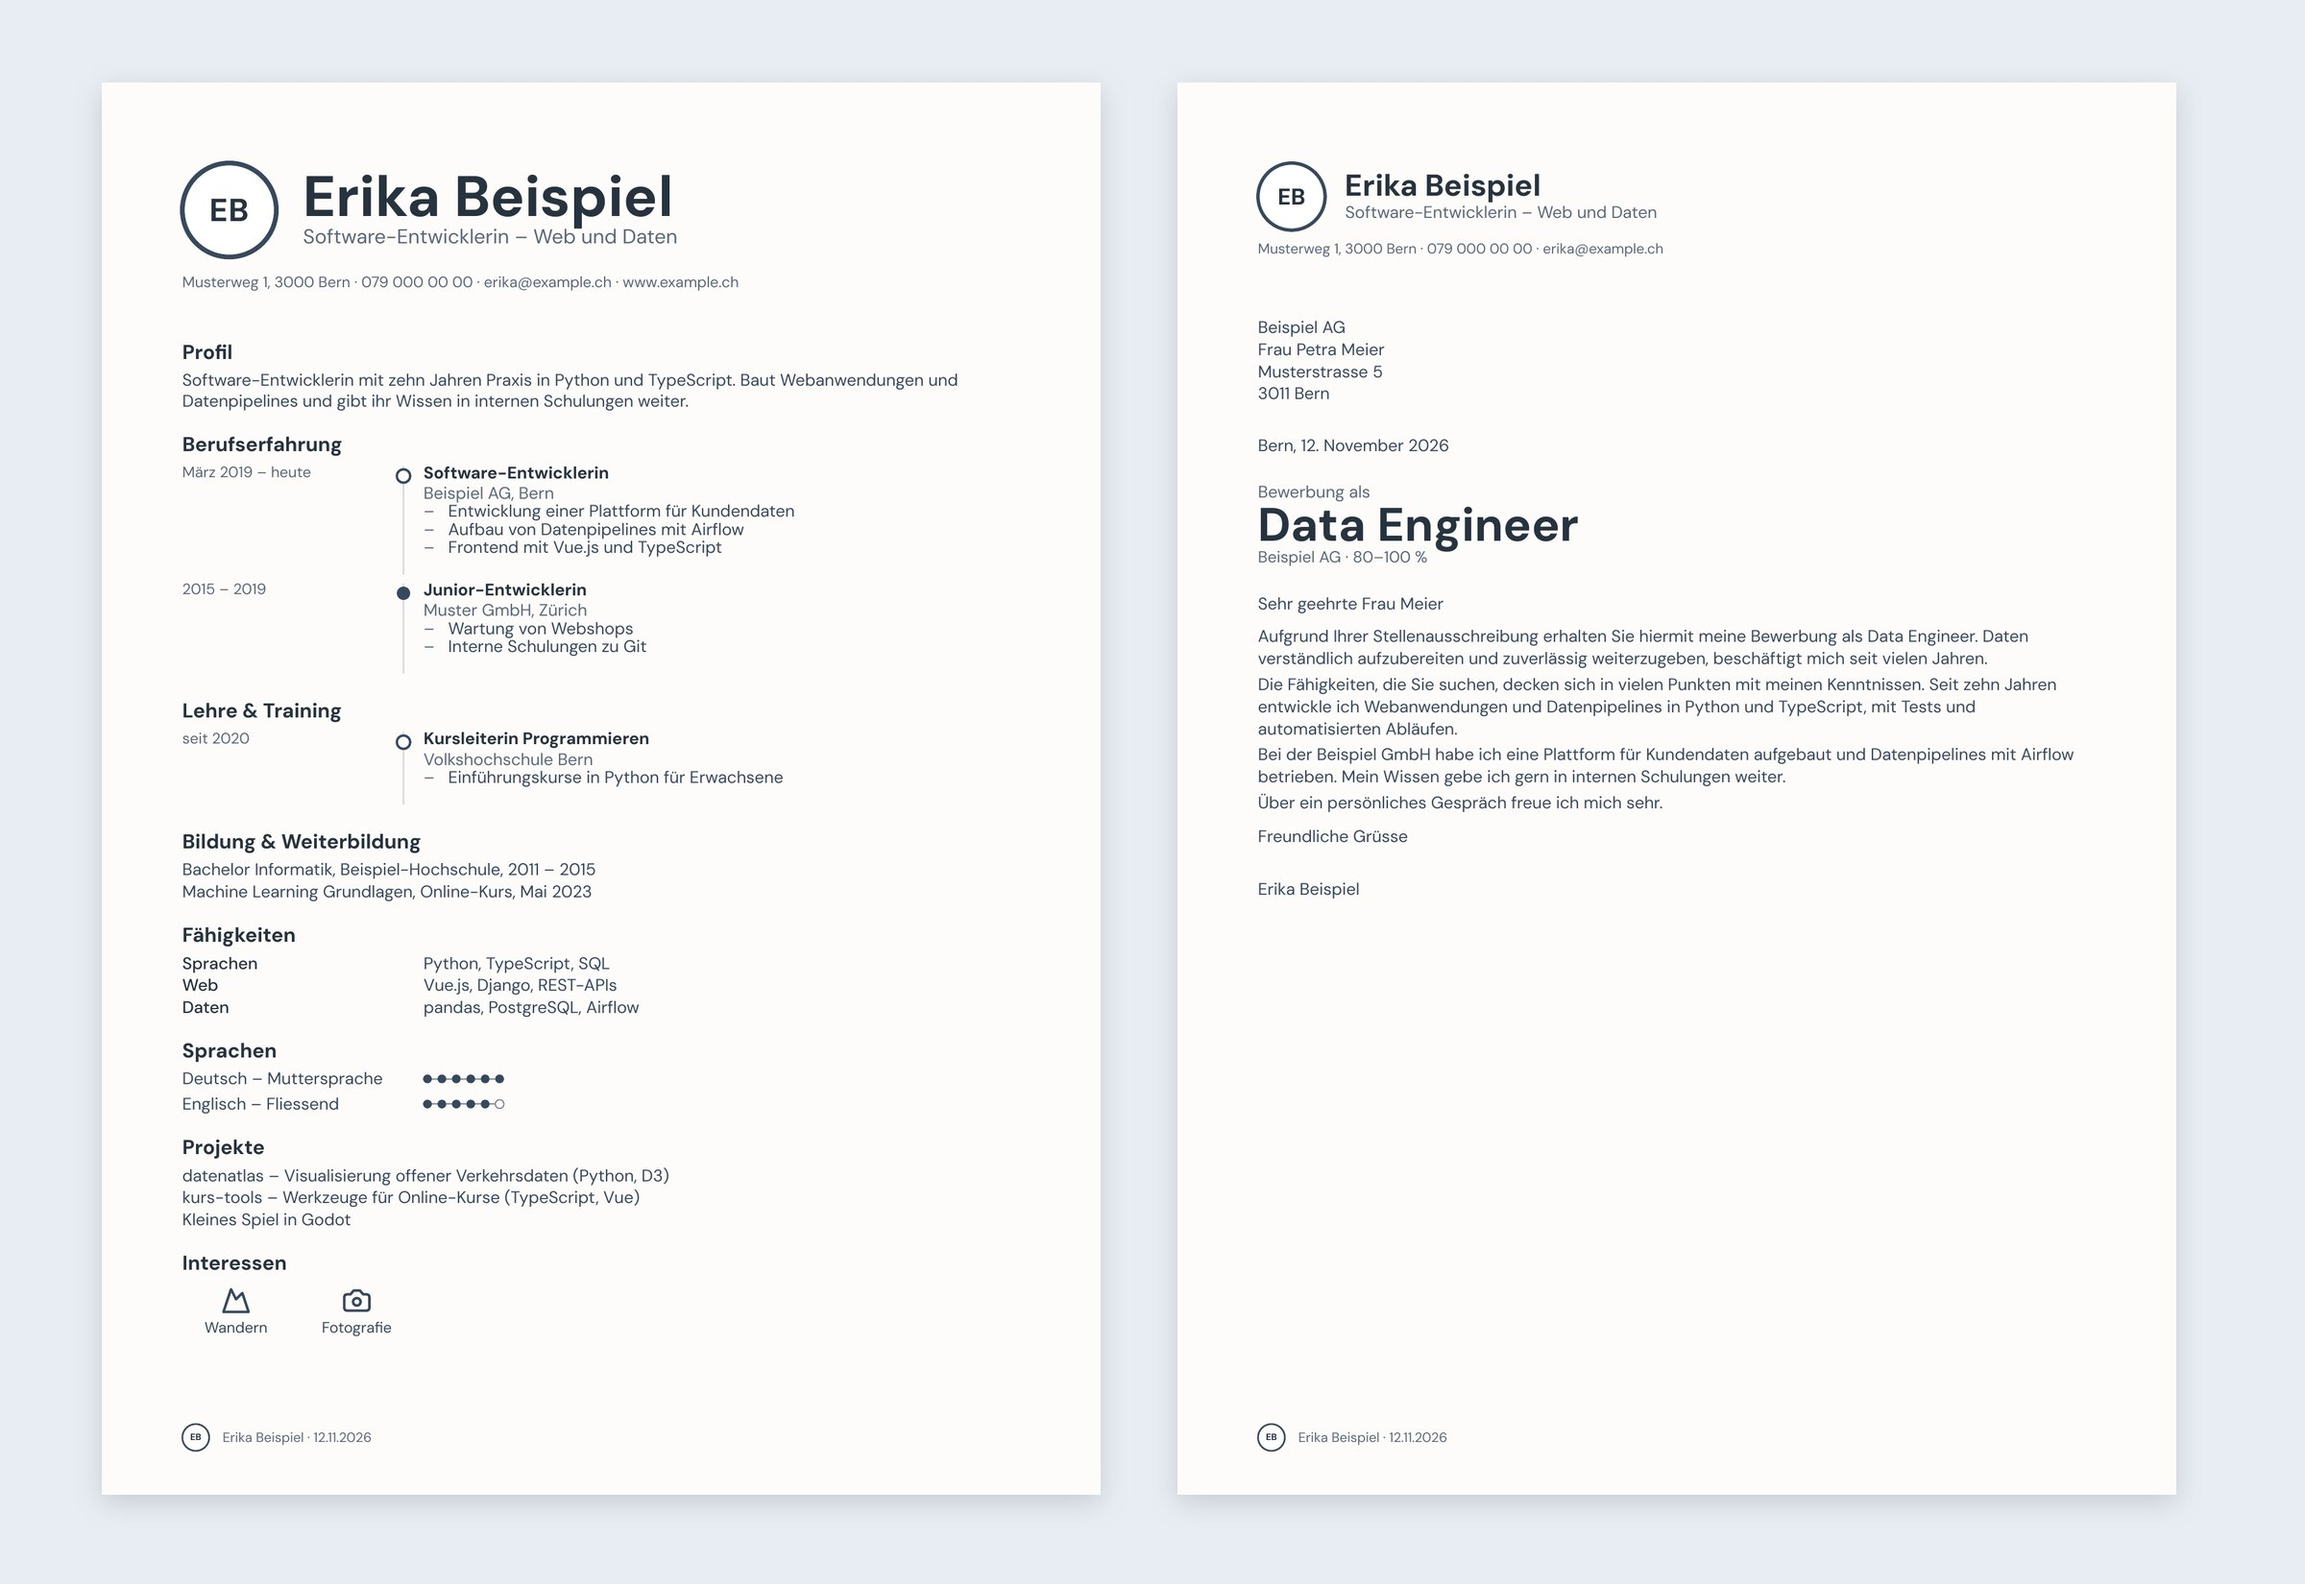
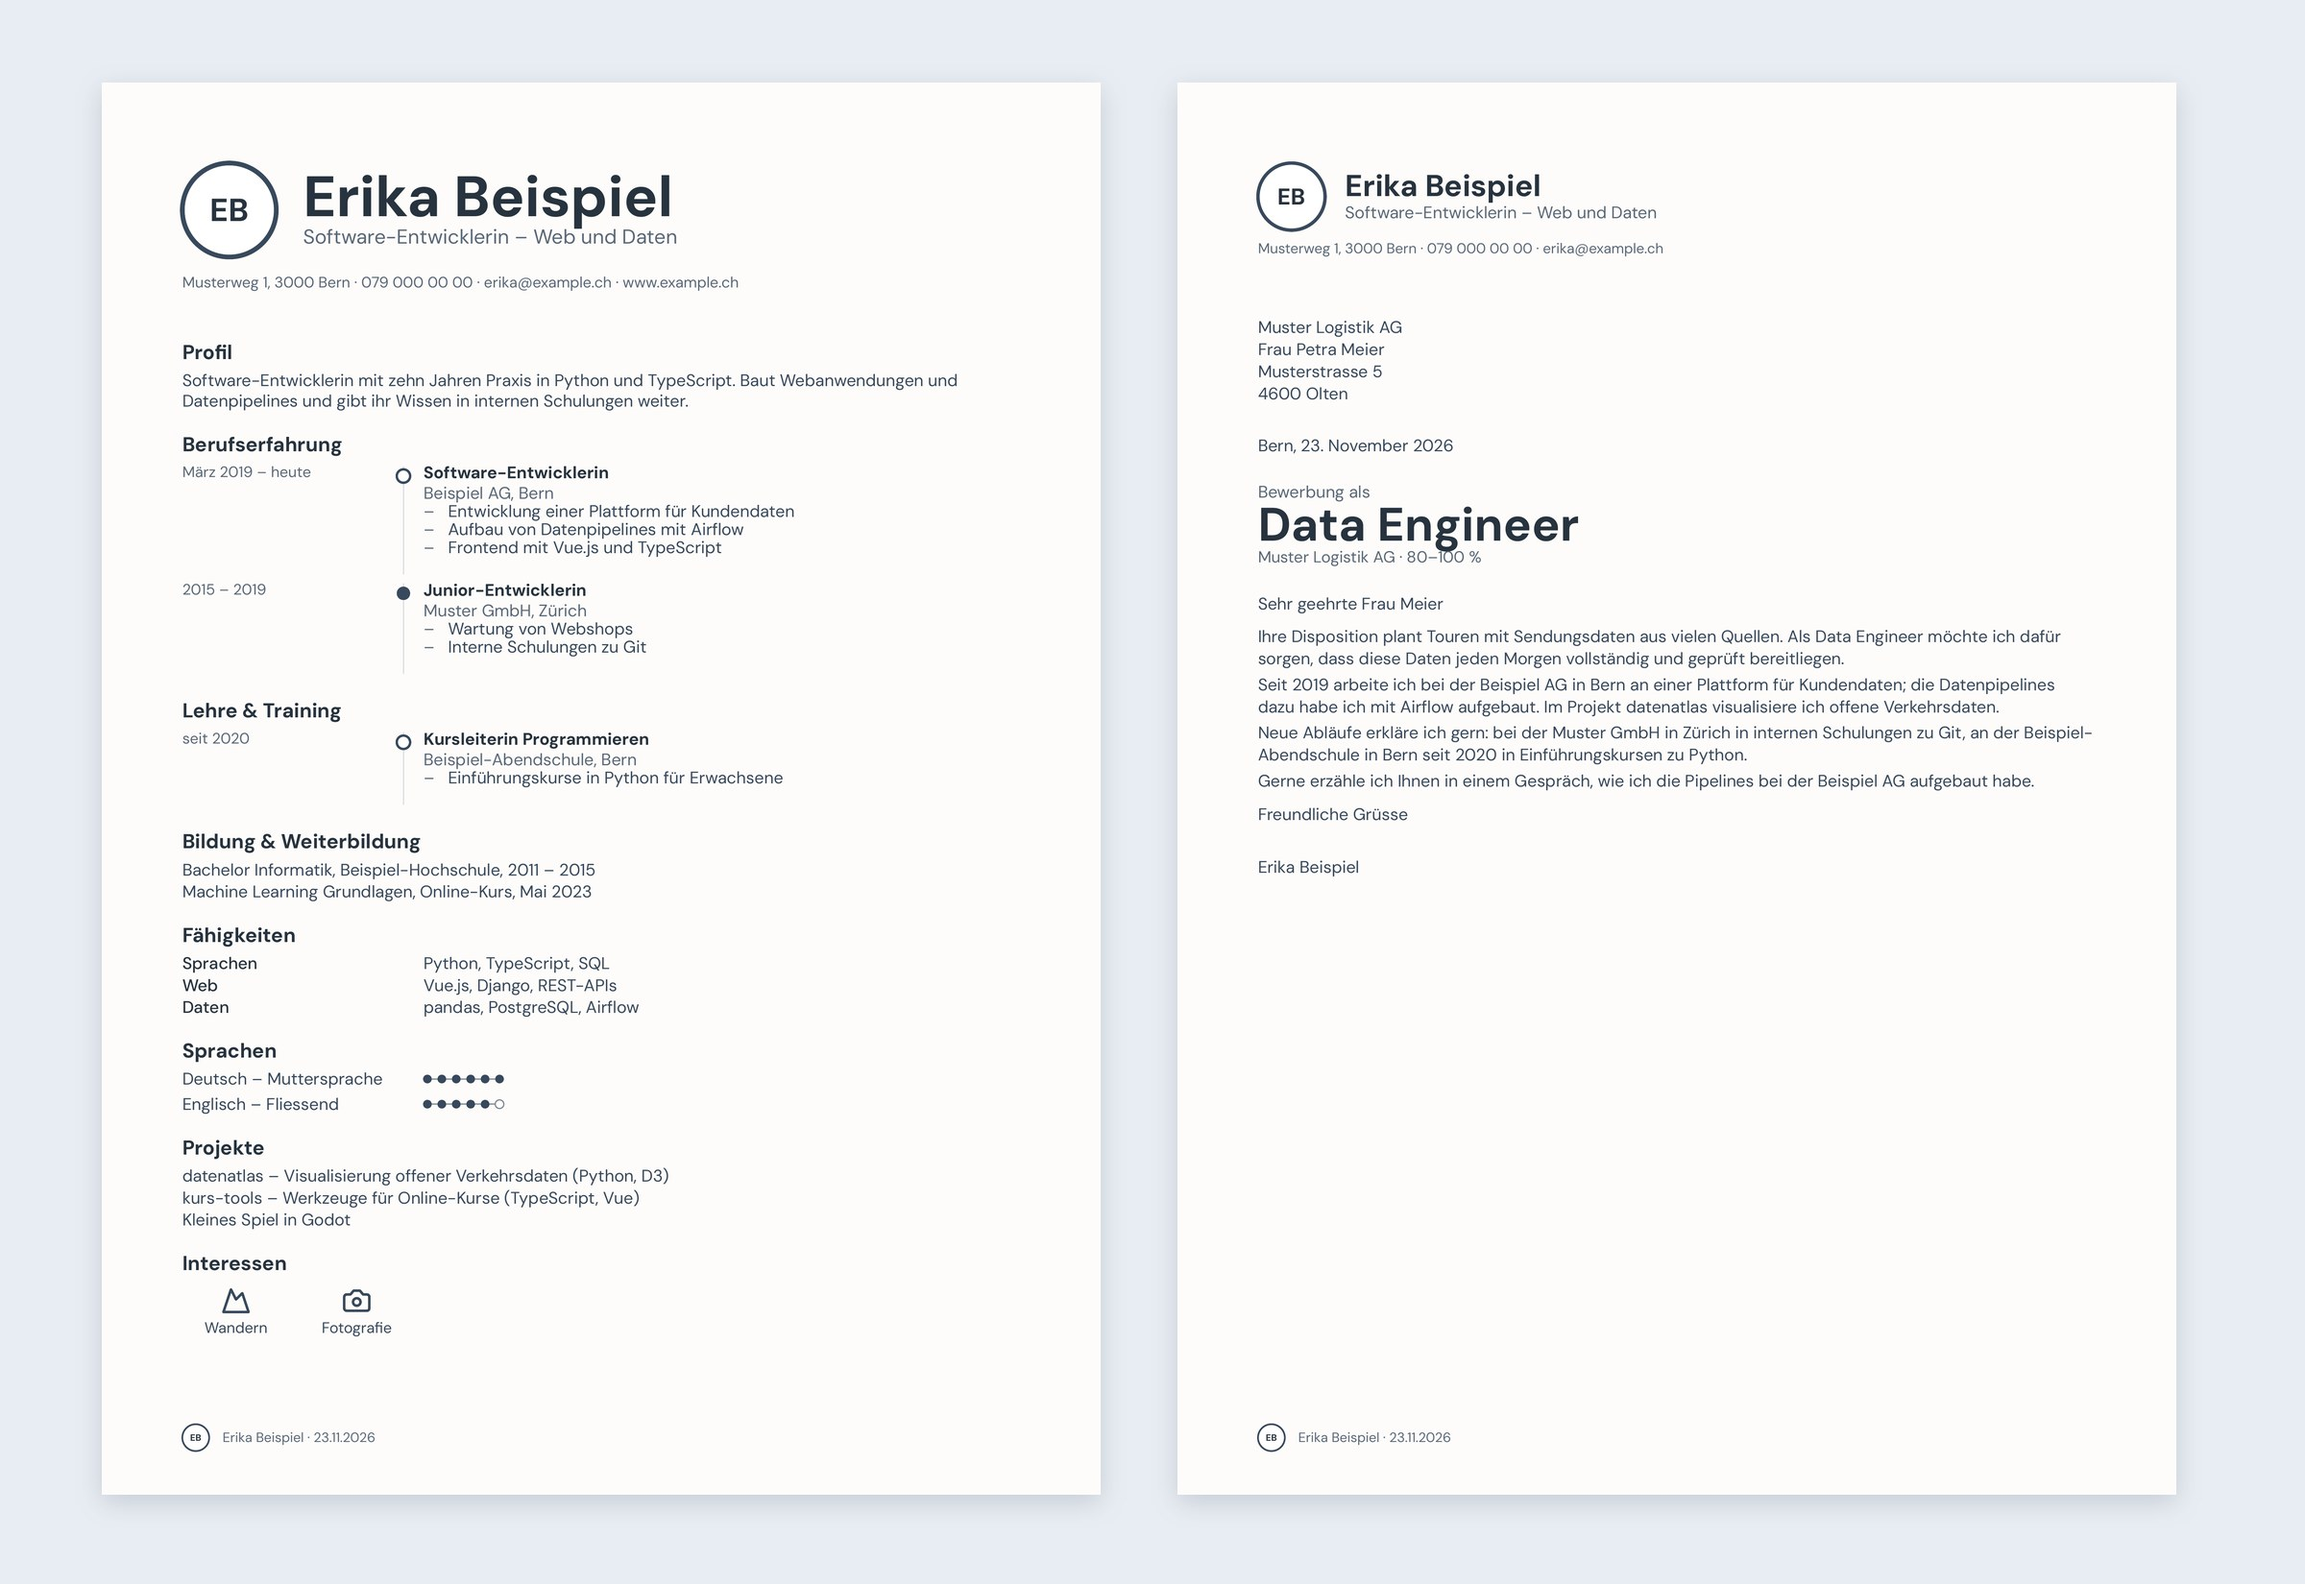
docs(bilder): retake the example documents with a consistent story #437
The example letter went to Erika's own employer and named a firm her CV
lacks; it now goes to an invented firm outside the CV and names only her
stations, with an invented school instead of a real one.

Pullboard-Item: #437

diff --git a/lebenslauf/tests/test_example_story.py b/lebenslauf/tests/test_example_story.py
@@ -1,0 +1,105 @@
+"""The invented example tells one consistent story (#437).
+
+The picture docs/bilder/beispiel-unterlagen.jpg is built from these files, and the website shows it: the
+letter must go to a firm outside the CV, name only firms and years the CV holds, name no real institution
+and open without a stock phrase.
+"""
+import re
+
+import yaml
+
+import build
+
+DATA = build.ROOT / "data"
+BUILDING_BLOCKS = build.ROOT.parent / "vorlagen" / "anschreiben" / "bausteine.md"
+EXAMPLE_FILES = (DATA / "beispiel.yaml", DATA / "anschreiben-beispiel.yaml", DATA / "dossier-beispiel.yaml",
+                 BUILDING_BLOCKS)
+
+# Openers the app's tone advises against; compared case-insensitively with the start of the letter
+STOCK_OPENERS = ("mit grossem interesse", "mit großem interesse", "mit interesse", "hiermit bewerbe ich mich",
+                 "hiermit sende ich", "mit freude habe ich", "aufgrund ihrer stellenausschreibung",
+                 "auf ihre stellenausschreibung", "bezugnehmend auf", "ich bewerbe mich", "gerne bewerbe ich mich",
+                 "mit diesem schreiben", "ihre stellenanzeige hat")
+# A word that marks a stock opening wherever it stands in the first sentence
+STOCK_WORDS = ("hiermit",)
+REAL_INSTITUTIONS = ("Volkshochschule",)
+
+# A firm: capitalised words ending in a legal form; a school: one word ending in -schule
+FIRM = re.compile(r"(?:[A-ZÄÖÜ][\w.&-]*\s)+(?:AG|GmbH|SA|Sàrl|KG)\b")
+SCHOOL = re.compile(r"\b[A-ZÄÖÜ][\w-]*schule\b")
+YEAR = re.compile(r"\b(?:19|20)\d\d\b")
+BLOCK_FIRM = re.compile(r"^- \*\*([^,*(]+)")
+
+
+def load(name: str) -> dict:
+    return yaml.safe_load((DATA / name).read_text(encoding="utf-8"))
+
+
+def cv_organisations(cv: dict) -> set[str]:
+    stations = cv.get("work", []) + cv.get("teaching", []) + cv.get("volunteer", [])
+    names = {s["name"] for s in stations if s.get("name")}
+    names |= {e["institution"] for e in cv.get("education", []) if e.get("institution")}
+    return names
+
+
+def cv_years(cv: dict) -> set[str]:
+    return set(YEAR.findall(yaml.safe_dump(cv, allow_unicode=True)))
+
+
+def named_in(text: str) -> list[str]:
+    return [m.strip() for m in FIRM.findall(text)] + SCHOOL.findall(text)
+
+
+def known(name: str, organisations: set[str]) -> bool:
+    """A name counts as known when it ends in one from the CV, so «Bei der Beispiel AG» reads as «Beispiel AG»."""
+    return any(name == org or name.endswith(" " + org) for org in organisations)
+
+
+def first_sentence(text: str) -> str:
+    return re.split(r"(?<=[.!?:])\s", " ".join(text.split()), maxsplit=1)[0]
+
+
+def test_the_letter_goes_to_a_firm_outside_the_cv():
+    target = load("anschreiben-beispiel.yaml")["empfaenger"][0]
+    assert target not in cv_organisations(load("beispiel.yaml"))
+
+
+def test_every_firm_and_school_the_letter_names_is_in_the_cv():
+    organisations = cv_organisations(load("beispiel.yaml"))
+    named = named_in(load("anschreiben-beispiel.yaml")["text"])
+    assert named, "the letter names no firm from the CV"
+    assert [name for name in named if not known(name, organisations)] == []
+
+
+def test_every_year_the_letter_names_is_in_the_cv():
+    years = YEAR.findall(load("anschreiben-beispiel.yaml")["text"])
+    assert set(years) <= cv_years(load("beispiel.yaml"))
+
+
+def test_the_building_blocks_name_only_stations_of_the_cv():
+    cv = load("beispiel.yaml")
+    organisations = cv_organisations(cv)
+    lines = BUILDING_BLOCKS.read_text(encoding="utf-8").splitlines()
+    firms = [m.group(1).strip() for line in lines if (m := BLOCK_FIRM.match(line))]
+    assert firms, "the building blocks name no station"
+    assert [firm for firm in firms if firm not in organisations] == []
+    assert set(YEAR.findall("\n".join(lines))) <= cv_years(cv)
+
+
+def test_the_example_names_no_real_institution():
+    found = [(path.name, word) for path in EXAMPLE_FILES for word in REAL_INSTITUTIONS
+             if word in path.read_text(encoding="utf-8")]
+    assert found == []
+
+
+def test_the_letter_opens_without_a_stock_phrase():
+    opening = first_sentence(load("anschreiben-beispiel.yaml")["text"]).lower()
+    assert not opening.startswith(STOCK_OPENERS), opening
+    assert not any(re.search(rf"\b{word}\b", opening) for word in STOCK_WORDS), opening
+
+
+def test_the_stock_phrase_check_can_fail():
+    assert first_sentence("Mit grossem Interesse habe ich Ihr Inserat gelesen. Weiter.").lower().startswith(
+        STOCK_OPENERS)
+    assert not known("Beispiel GmbH", {"Beispiel AG"})
+    assert named_in("Bei der Beispiel GmbH und an der Muster-Abendschule.") == ["Beispiel GmbH", "Muster-Abendschule"]

diff --git a/lebenslauf/tests/test_dossier_register.py b/lebenslauf/tests/test_dossier_register.py
@@ -63,7 +63,7 @@ def test_cover_is_the_table_of_contents(example):
     pages = page_texts(example.dossier)
     cover = pages[0]
 
-    assert_in_order(cover, ["Erika Beispiel", "Bewerbung", "Data Engineer", "Beispiel AG", "Inhalt",
+    assert_in_order(cover, ["Erika Beispiel", "Bewerbung", "Data Engineer", "Muster Logistik AG", "Inhalt",
                             "Anschreiben", "Lebenslauf", "Beilagen", "Arbeitszeugnis Beispiel AG",
                             "Diplom Bachelor Informatik"])
     letter_page = next(i for i, p in enumerate(pages) if "Sehr geehrte Frau Meier" in p) + 1
@@ -109,8 +109,8 @@ def test_tab_labels_are_pdf_artifacts(example):
 def test_letter_box_with_position_workload_and_company(example):
     letter = pdftotext(example.letter)
 
-    assert_in_order(letter, ["Erika Beispiel", "Data Engineer", "80–100 %", "Beispiel AG", "Sehr geehrte Frau Meier",
-                             "Freundliche Grüsse"])
+    assert_in_order(letter, ["Erika Beispiel", "Data Engineer", "80–100 %", "Muster Logistik AG",
+                             "Sehr geehrte Frau Meier", "Freundliche Grüsse"])
     assert "Berufserfahrung" not in letter and "Inhalt" not in letter
 
 

diff --git a/lebenslauf/tests/test_dossier_siegel.py b/lebenslauf/tests/test_dossier_siegel.py
@@ -197,7 +197,7 @@ def test_cover_reads_name_application_and_contact_in_order(example):
     cover = page_texts(example.dossier)[0]
 
     assert_in_order(cover, ["Erika Beispiel", "Software-Entwicklerin – Web und Daten", "Bewerbung als",
-                            "Data Engineer", "Beispiel AG", "Musterweg 1", "3000 Bern", "079 000 00 00",
+                            "Data Engineer", "Muster Logistik AG", "Musterweg 1", "3000 Bern", "079 000 00 00",
                             "erika@example.ch"])
 
 
@@ -222,7 +222,7 @@ def test_single_files_hold_only_their_part(example):
     letter = flat(pdftotext(example.letter))
 
     assert "Sehr geehrte Frau Meier" not in cv and "Kurz vorgestellt" not in cv
-    assert_in_order(letter, ["Erika Beispiel", "Software-Entwicklerin – Web und Daten", "Beispiel AG",
+    assert_in_order(letter, ["Erika Beispiel", "Software-Entwicklerin – Web und Daten", "Muster Logistik AG",
                              "Data Engineer", "Sehr geehrte Frau Meier", "Freundliche Grüsse"])
     assert "Berufserfahrung" not in letter and "Danke" not in letter
 

diff --git a/lebenslauf/tests/test_dossier_raster.py b/lebenslauf/tests/test_dossier_raster.py
@@ -151,13 +151,13 @@ def test_cover_reads_name_application_and_contact_in_order(example):
     cover = page_texts(example.dossier)[0]
 
     assert_in_order(cover, ["Erika Beispiel", "Software-Entwicklerin – Web und Daten", "Data Engineer",
-                            "Beispiel AG", "Musterweg 1", "3000 Bern", "079 000 00 00", "erika@example.ch"])
+                            "Muster Logistik AG", "Musterweg 1", "3000 Bern", "079 000 00 00", "erika@example.ch"])
 
 
 def test_letter_head_is_the_band_with_the_company(example):
     letter = pdftotext(example.letter)
 
-    assert_in_order(letter, ["Beispiel AG", "Bewerbung als", "Data Engineer", "Erika Beispiel",
+    assert_in_order(letter, ["Muster Logistik AG", "Bewerbung als", "Data Engineer", "Erika Beispiel",
                              "Sehr geehrte Frau Meier", "Freundliche Grüsse"])
     assert "Berufserfahrung" not in letter and "Auf einen Blick" not in letter
 

diff --git a/vorlagen/anschreiben/bausteine.md b/vorlagen/anschreiben/bausteine.md
@@ -1,15 +1,15 @@
 # Bausteine fürs Anschreiben – Vorlage
 
-Kopie in den privaten Datenordner legen (`anschreiben/bausteine.md`). Jede Aussage, die in ein Anschreiben darf, steht hier einmal, mit Beleg und Tags für die Auswahl (z.B. `entwicklung`, `daten`, `bildung`, `betrieb`). Der Skill `bewerbung` verwendet nur belegte Aussagen. Alle Werte hier sind erfunden.
+Kopie in den privaten Datenordner legen (`anschreiben/bausteine.md`). Jede Aussage, die in ein Anschreiben darf, steht hier einmal, mit Beleg und Tags für die Auswahl (z.B. `entwicklung`, `daten`, `bildung`, `betrieb`). Der Skill `bewerbung` verwendet nur belegte Aussagen. Alle Werte hier sind erfunden und passen zum Beispiel-Lebenslauf.
 
 ## Aktuelle Stelle
-- **Beispiel GmbH, Bern (seit 2021)** `entwicklung daten` – Entwickelt eine Plattform für Kundendaten in Python; Datenpipelines mit Airflow. *Beleg: Arbeitszeugnis.*
+- **Beispiel AG, Bern (seit 2019)** `entwicklung daten` – Entwickelt eine Plattform für Kundendaten in Python; Datenpipelines mit Airflow. *Beleg: Arbeitszeugnis.*
 
 ## Frühere Stationen
-- **Muster AG** `entwicklung` – Webanwendungen in TypeScript und Vue. *Beleg: Zeugnis.*
+- **Muster GmbH, Zürich (2015–2019)** `entwicklung bildung` – Wartung von Webshops; interne Schulungen zu Git. *Beleg: Zeugnis.*
 
 ## Bildung und Vermitteln
-- **Interne Schulungen seit 2022** `bildung` – Schulungen zu Datenanalyse für Fachabteilungen.
+- **Beispiel-Abendschule, Bern (seit 2020)** `bildung` – Einführungskurse in Python für Erwachsene.
 
 ## Lücken (offen benennen)
 - Kubernetes bisher nicht produktiv eingesetzt.
